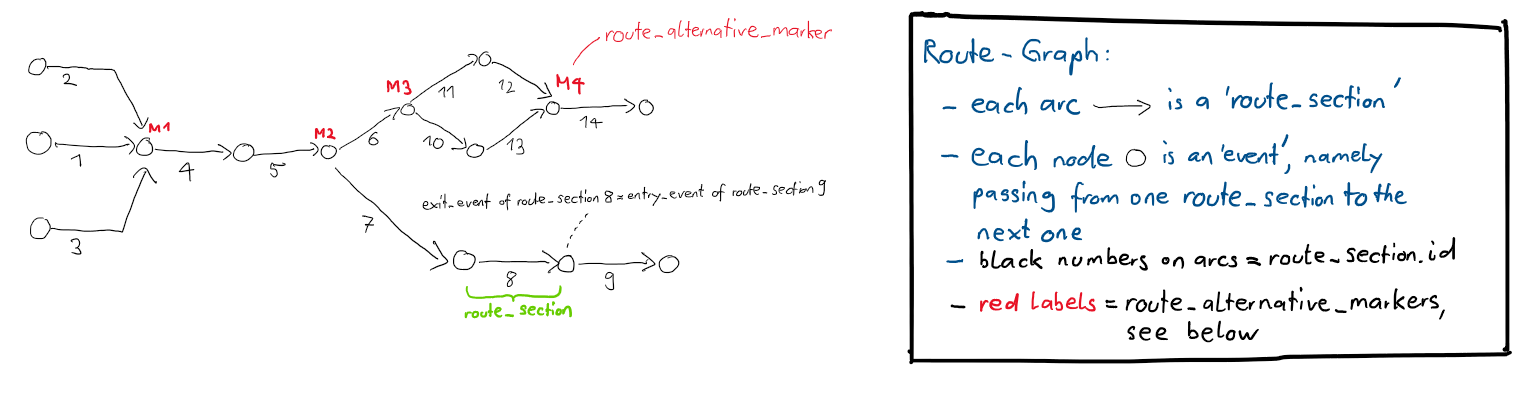
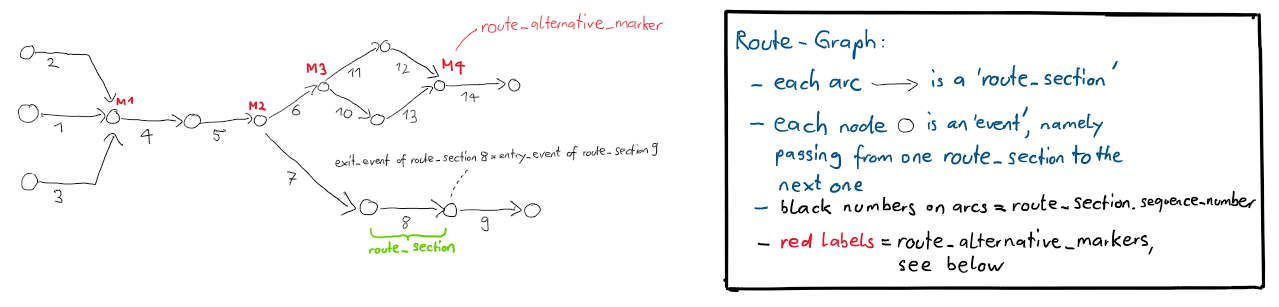
update input

Changed region(s): [[0.2134, 0.0293, 1.0, 0.9674], [0.0, 0.1173, 0.4269, 0.645], [0.2134, 0.4691, 0.2439, 0.4984]]

diff --git a/documentation/input_data_model.md b/documentation/input_data_model.md
@@ -55,9 +55,13 @@ The DAG for _route_1_ looks as follows: Nodes are the _events_ and arcs are the 
 
 ![](documentation/img/route_graph_with_legend.png)
 
-Let us see how this graph is modeled in the JSON. Modeling a graph in a JSON structure in a human-readabl way is not exactly a joy. We have taken the approach that paths (i.e. lineare subgraphs) in the graph can be grouped into so-called _route paths_. We see that _route_1_ in our [sample scenario] is made up of 5 _route_paths_:
+Let us see how this graph is modeled in the JSON. Modeling a graph in a JSON structure in a human-readabl way is not exactly a joy. We have taken the approach that paths (i.e. lineare subgraphs) in the graph can be grouped into so-called _route paths_. Then these _route_paths_ are "glued together" at the appropriate places. We see that _route_1_ in our [sample scenario] is made up of 5 _route_paths_:
 
 ![](documentation/img/route_1_route_paths.png)
+
+Each _route_path_ is a path in the route graph. In the following image, all _route_paths_ are encircled for clarity. For example, the green path illustrates the _route_path_ with id=1. It consists of 7 _route_sections_. Similarly, the orange one corresponds to _route_path_ with id=2. It consists only of one _route_section_.
+
+![](documentation/img/route_paths_JSON_and_graph.png)
 
 Distinct _route_paths_ can be "glued" together at events that share the same _route alternative marker labels_. In the following image, the individual _route_paths_ are encircled for clarity. Again, the red labels are the _route alternative marker labels_.
 
